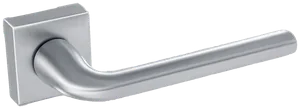
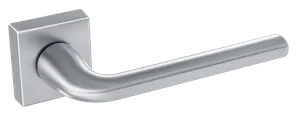
fix: maniglie rigenerate dall'alfa originale, senza deformarle
Le foto di fabbrica sono gia' RGBA con l'80% di trasparenza. Le avevo
convertite in RGB, e quella conversione butta l'alfa scoprendo il degradato
grigio inciso sotto i pixel trasparenti: il "fondo da studio" che poi mi
sono messo a togliere l'avevo creato io. Via tutta quella pipeline di
ritaglio, basta l'alfa che c'era gia'.

Le proporzioni: ritagliavo ogni foto sul proprio contorno, quindi ognuna
finiva con un rapporto diverso e nella griglia le maniglie apparivano a
scale diverse. Ora il riquadro e' unico per tutte e dodici, l'unione dei
contorni piu' un margine uguale: stessa inquadratura, stessa scala.

Anche l'Elisa viene pulita: prima era impossibile perche' l'alone da
separare non esisteva nell'originale.

Changed region(s): [[0.0, 0.0275, 0.99, 0.9908], [0.3, 0.3303, 0.33, 0.4128]]

diff --git a/index.html b/index.html
@@ -9,7 +9,7 @@
 <link href="https://fonts.googleapis.com/css2?family=Cormorant+Garamond:ital,wght@0,400;0,500;0,600;1,400&family=Jost:wght@300;400;500;600&family=Montserrat:wght@600;700&display=swap" rel="stylesheet">
 <!-- ?v= si aggiorna a ogni deploy: senza, il browser puo tenere il
      vecchio app.js insieme al nuovo index.html e la pagina si rompe -->
-<link rel="stylesheet" href="css/style.css?v=2">
+<link rel="stylesheet" href="css/style.css?v=3">
 <script type="importmap">
 {
   "imports": {
@@ -304,6 +304,6 @@
 </div>
 
 <script src="https://cdn.jsdelivr.net/npm/jspdf@2.5.2/dist/jspdf.umd.min.js"></script>
-<script type="module" src="js/app.js?v=2"></script>
+<script type="module" src="js/app.js?v=3"></script>
 </body>
 </html>
